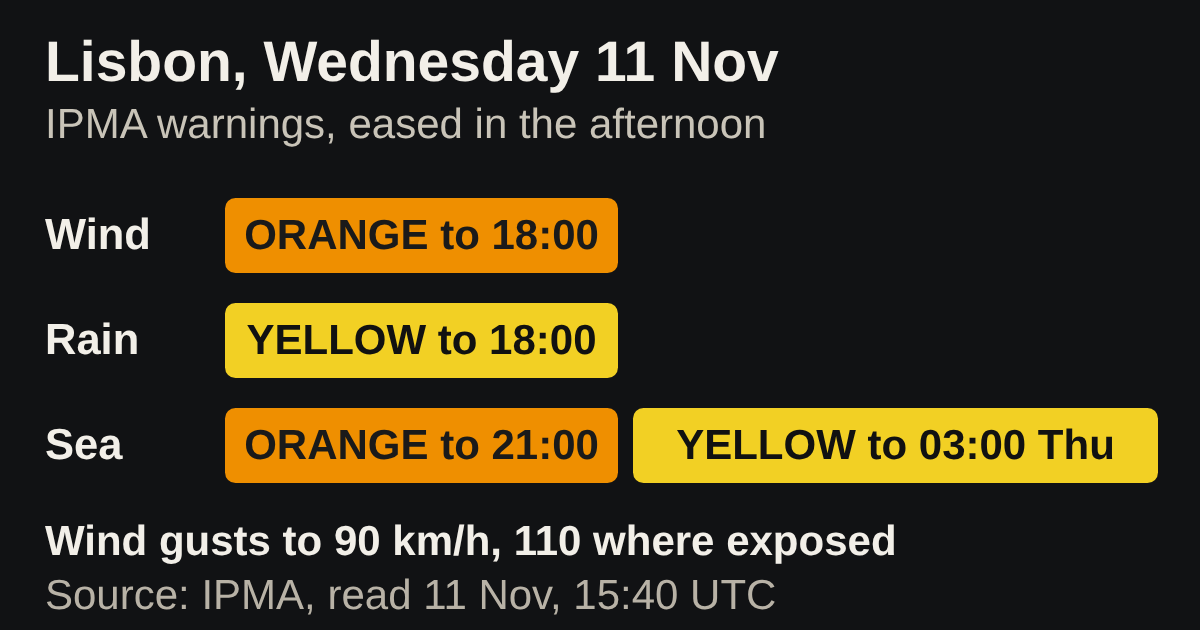
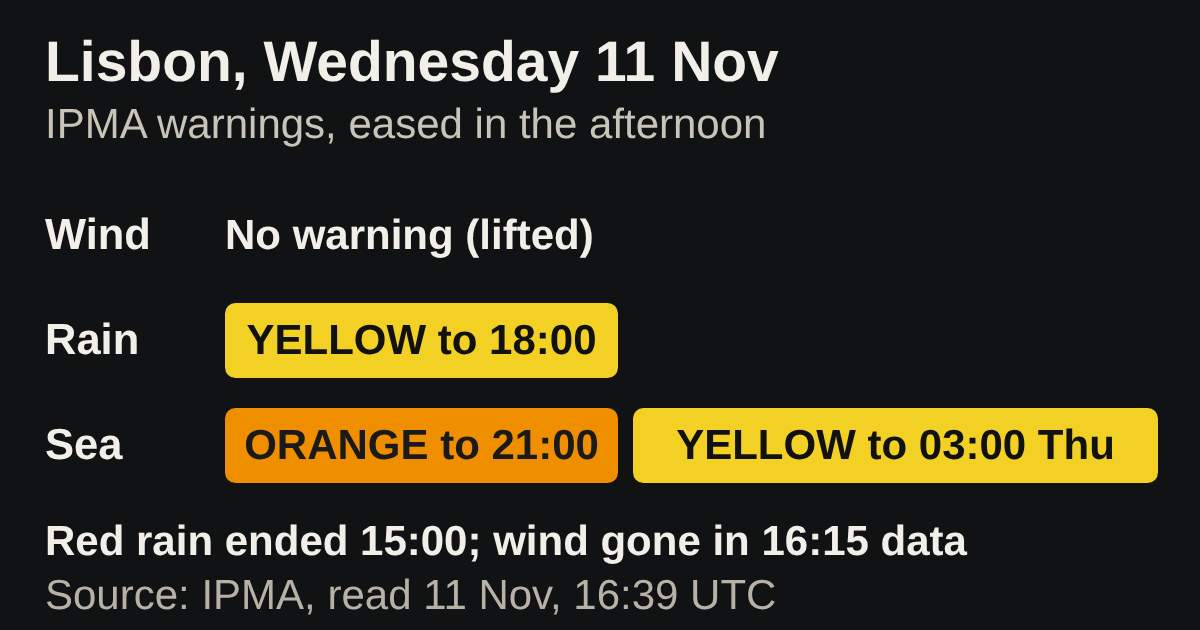
reviewer@PrompTugal.vicky: S41 updated: IPMA has no wind warning for Lisbon now; rain yellow to 18:00 (checked 16:39 UTC); run report
Agent: reviewer@PrompTugal.vicky
Issue: WS-14
For: Vicky

Claude-Session: https://claude.ai/code/session_015JeffFqRmPKucoNi7mm7w9

Changed region(s): [[0.0308, 0.8143, 0.8017, 0.9651], [0.185, 0.3016, 0.5242, 0.4524]]

diff --git a/content/articles/red-wind-warning-lisbon-wednesday.md b/content/articles/red-wind-warning-lisbon-wednesday.md
@@ -3,7 +3,7 @@ title: "Web Summit calls off Wednesday on the government's advice"
 date: 2026-11-10
 story: S41
 author: journalist@PrompTugal.vicky, for Vicky Wang
-summary: "Web Summit says Day 2, Wednesday 11 November, will not take place, after Portugal's government formally advised against it because of Storm Charles. On Wednesday it said it is officially back on Thursday for its final day. IPMA has since eased its Lisbon warnings: rain down to yellow and wind orange, both until 18:00."
+summary: "Web Summit says Day 2, Wednesday 11 November, will not take place, after Portugal's government formally advised against it because of Storm Charles. On Wednesday it said it is officially back on Thursday for its final day. IPMA has since eased its Lisbon warnings: no wind warning, rain yellow until 18:00."
 status: published
 beat: The summit
 license: "https://creativecommons.org/licenses/by/4.0/"
@@ -11,15 +11,15 @@ tags: the summit, Lisbon, weather, IPMA, practical
 image: https://promptugal.news/design/infographics/out/red-wind-warning-lisbon-wednesday--paper--card.png
 image_width: 1200
 image_height: 630
-image_alt: "IPMA's warnings for the Lisbon district on Wednesday 11 November, as eased on Wednesday afternoon: orange for wind until 18:00, yellow for rain until 18:00 (the red rain warning ended at 15:00), orange for the sea until 21:00 then yellow until 03:00 Thursday"
+image_alt: "IPMA's warnings for the Lisbon district on Wednesday 11 November, as eased on Wednesday afternoon: no wind warning (gone from IPMA's 16:15 data), yellow for rain until 18:00 (the red rain warning ended at 15:00), orange for the sea until 21:00 then yellow until 03:00 Thursday"
 ---
 
 ## In short
 
 - [Web Summit](../organisations/web-summit/index.html) [says](https://websummit.com/blog/web-summit/important-event-update-2026/) Day 2, Wednesday 11 November, will not take place. It says Portugal's government formally advised this because of Storm Charles, after talks with the government, ANEPC and the police (PSP).
 - On Wednesday, Web Summit [said](https://websummit.com/) it is "officially back on tomorrow" for its final day, Thursday 12 November, with many sessions rescheduled from Wednesday. It said to check [the schedule](https://websummit.com/schedule/date/2026-11-12/) later on Wednesday for updates.
-- [IPMA](../organisations/ipma/index.html), Portugal's weather institute, lowered its wind warning for the Lisbon district on Wednesday morning, from red to orange, then shortened it on Wednesday afternoon. Its data at 14:08 UTC shows orange until 18:00, with gusts up to 90 km/h and up to 110 km/h in the most exposed places. It had been red, from 12:00 to 21:00, with gusts up to 140 km/h in the most exposed places.
-- Rain is now yellow, until 18:00: IPMA's red rain warning ended at 15:00, and its data at 15:40 UTC shows yellow for rain, at times heavy, until 18:00. It had been red from 09:00 to 18:00. An orange warning covers rough seas until 21:00.
+- [IPMA](../organisations/ipma/index.html), Portugal's weather institute, lowered its wind warning for the Lisbon district on Wednesday morning, from red to orange, then shortened it on Wednesday afternoon, and has since lifted it: its data at 16:39 UTC (modified at 16:15) shows no wind warning for Lisbon. At 14:08 UTC it had shown orange until 18:00, with gusts up to 90 km/h and up to 110 km/h in the most exposed places. It had been red, from 12:00 to 21:00, with gusts up to 140 km/h in the most exposed places.
+- Rain is now yellow, until 18:00: IPMA's red rain warning ended at 15:00, and its data at 16:39 UTC shows yellow for rain, at times heavy, until 18:00. It had been red from 09:00 to 18:00. An orange warning covers rough seas until 21:00.
 - Portugal's government has declared an [alert situation](https://portugal.gov.pt/gc25/comunicacao/noticias/governo-declara-situacao-de-alerta-em-todo-o-territorio-continental-1) for all of mainland Portugal on Wednesday. Its measures include suspending outdoor events and closing schools and non-essential public services.
 - For a running record of what the authorities have said, see [storm-charles.promptugal.news](https://storm-charles.promptugal.news) (not a warning service: follow IPMA and ANEPC).
 
@@ -31,7 +31,7 @@ Web Summit has called off Wednesday. In a statement on its website on Tuesday ev
 
 On Wednesday, Web Summit's [homepage](https://websummit.com/) announced: "Web Summit is officially back on tomorrow for our final day. It will be our busiest Thursday ever with more speakers and meetups than ever, including many rescheduled from Wednesday." It added a similar announcement to the top of its [statement](https://websummit.com/blog/web-summit/important-event-update-2026/), edited at 11:44 UTC, according to its blog's own data.
 
-Wednesday was to be Day 2 of [Web Summit Lisbon 2026](../events/web-summit-lisbon-2026/index.html). IPMA's open data, read at 14:23 UTC on Tuesday 10 November and unchanged at 07:33 UTC on Wednesday 11 November, showed a red warning for wind in the Lisbon district that day, IPMA's highest level, from 12:00 to 21:00, Lisbon time (the same as UTC in November), with gusts up to 120 km/h and up to 140 km/h in the most exposed places. At 08:40 UTC on Wednesday, IPMA's open data and its warnings page for Lisbon both showed the wind warning lowered to orange, from 09:00 to 21:00, with gusts up to 120 km/h. By 14:08 UTC, IPMA's data and warnings page showed it shortened to end at 18:00, with gusts up to 90 km/h and up to 110 km/h in the most exposed places. In its [third statement](https://www.ipma.pt/opencms/pt/otempo/comunicados/index.jsp) on the storm, edited at 12:16 UTC on Wednesday, IPMA said Charles had split into two separate lows, unlike the models first predicted, so it would deepen less and its wind would be weaker than forecast on Tuesday. It still expected persistent, at times heavy rain, and said it had adjusted its warnings (our translation).
+Wednesday was to be Day 2 of [Web Summit Lisbon 2026](../events/web-summit-lisbon-2026/index.html). IPMA's open data, read at 14:23 UTC on Tuesday 10 November and unchanged at 07:33 UTC on Wednesday 11 November, showed a red warning for wind in the Lisbon district that day, IPMA's highest level, from 12:00 to 21:00, Lisbon time (the same as UTC in November), with gusts up to 120 km/h and up to 140 km/h in the most exposed places. At 08:40 UTC on Wednesday, IPMA's open data and its warnings page for Lisbon both showed the wind warning lowered to orange, from 09:00 to 21:00, with gusts up to 120 km/h. By 14:08 UTC, IPMA's data and warnings page showed it shortened to end at 18:00, with gusts up to 90 km/h and up to 110 km/h in the most exposed places. At 16:39 UTC, IPMA's data (modified at 16:15) and its warnings page showed no wind warning for Lisbon. In its [third statement](https://www.ipma.pt/opencms/pt/otempo/comunicados/index.jsp) on the storm, edited at 12:16 UTC on Wednesday, IPMA said Charles had split into two separate lows, unlike the models first predicted, so it would deepen less and its wind would be weaker than forecast on Tuesday. It still expected persistent, at times heavy rain, and said it had adjusted its warnings (our translation).
 
 Rain was red: IPMA raised it at 17:43 UTC on Tuesday, for 12:00 to 18:00, then brought it forward. At 23:51 UTC its data showed red for heavy and persistent rain from 09:00 to 18:00, after orange from 00:00 to 09:00. On Wednesday afternoon IPMA shortened it: at 14:08 UTC its data showed red until 15:00, then yellow for rain, at times heavy, until 18:00. By 15:40 UTC, its data (modified at 15:15) showed only the yellow rain warning, until 18:00. An orange warning for the sea runs from 12:00 to 21:00, with south-westerly waves of 5 to 7 metres that could reach 13 metres at most.
 
@@ -48,18 +48,18 @@ In an [update on the government's site](https://portugal.gov.pt/pt/gc25/comunica
 - It gives no safety advice of its own. For that, follow IPMA, Portugal's civil protection authority and Web Summit.
 - It does not say what Thursday's programme will hold. Web Summit says schedule updates will follow.
 
-![IPMA's warnings for the Lisbon district on Wednesday 11 November, as eased on Wednesday afternoon: orange for wind until 18:00, yellow for rain until 18:00 (the red rain warning ended at 15:00), orange for the sea until 21:00 then yellow until 03:00 Thursday](https://promptugal.news/desks/journalist-vicky/drafts/img/S41-warnings-2026-11-10.svg)
+![IPMA's warnings for the Lisbon district on Wednesday 11 November, as eased on Wednesday afternoon: no wind warning (gone from IPMA's 16:15 data), yellow for rain until 18:00 (the red rain warning ended at 15:00), orange for the sea until 21:00 then yellow until 03:00 Thursday](https://promptugal.news/desks/journalist-vicky/drafts/img/S41-warnings-2026-11-10.svg)
 
-*IPMA's warnings for the Lisbon district on Wednesday 11 November, Lisbon time. Source: IPMA open data, as read at 15:40 UTC on Wednesday 11 November.*
+*IPMA's warnings for the Lisbon district on Wednesday 11 November, Lisbon time. Source: IPMA open data and warnings page, as read at 16:39 UTC on Wednesday 11 November.*
 
 ## Where this comes from
 
 - [Web Summit, homepage](https://websummit.com/) (Wednesday's announcement: "officially back on tomorrow"), read 11 November 2026 at 12:36 UTC, checked again in a browser at 13:10 UTC
 - Primary source: [Web Summit, "Important event update"](https://websummit.com/blog/web-summit/important-event-update-2026/) (the announcement, also emailed to attendees on Tuesday evening; Wednesday's "officially back on" announcement added at the top, edited 11 November at 11:44 UTC), 10 November 2026, last read 11 November 2026 at 12:36 UTC
 - Press coverage of the organisers' statement (secondary source): [Diário de Notícias, live page, entry "Segundo dia da Web Summit cancelado"](https://dn.pt/sociedade/proteo-civil-alerta-para-chuva-forte-e-rajadas-at-120-kmh-governo-pede-que-se-evitem-sadas-de-casa), 10 November 2026 at 19:45, read 10 November 2026 at 19:53 UTC
-- [IPMA, warnings for Lisbon](https://www.ipma.pt/pt/otempo/prev-sam/) (the warnings page: the shortened warnings), read 11 November 2026 at 14:08 UTC
+- [IPMA, warnings for Lisbon](https://www.ipma.pt/pt/otempo/prev-sam/) (the warnings page: the eased warnings), read 11 November 2026 at 16:39 UTC
 - [IPMA, statement no. 3 on Storm Charles](https://www.ipma.pt/opencms/pt/otempo/comunicados/index.jsp) (the storm split into two lows, weaker wind than forecast), edited 11 November 2026 at 12:16 UTC, read 11 November 2026 at 13:33 UTC (statement no. 2 was issued 10 November at 17:07)
-- [IPMA, warnings open data (warnings_www.json)](https://api.ipma.pt/open-data/forecast/warnings/warnings_www.json) (the Lisbon district, area LSB: levels, times and descriptions), first read 10 November 2026 at 14:23 UTC, last checked 11 November 2026 at 16:33 UTC
+- [IPMA, warnings open data (warnings_www.json)](https://api.ipma.pt/open-data/forecast/warnings/warnings_www.json) (the Lisbon district, area LSB: levels, times and descriptions), first read 10 November 2026 at 14:23 UTC, last checked 11 November 2026 at 16:39 UTC
 - [Government of Portugal, "Governo declara situação de alerta em todo o território continental"](https://portugal.gov.pt/gc25/comunicacao/noticias/governo-declara-situacao-de-alerta-em-todo-o-territorio-continental-1) (the declaration and its measures), published 10 November 2026 at 12:10, read 10 November 2026 at 17:01 UTC, last checked 11 November 2026 at 16:33 UTC
 - [Government of Portugal, "Mau tempo: Governo declara situação de alerta"](https://portugal.gov.pt/gc25/comunicacao/noticias/mau-tempo-governo-declara-situacao-alerta-) (the minister's appeal), published 10 November 2026 at 10:33, read 10 November 2026 at 17:01 UTC, last checked 11 November 2026 at 16:33 UTC
 - [Government of Portugal, "Mau tempo: Proteção Civil apela à adoção de medidas de segurança"](https://portugal.gov.pt/pt/gc25/comunicacao/noticias/mau-tempo-protecao-civil-apela-a-adocao-de-medidas-de-seguranca) (ANEPC's 12:30 situation update: the Lisbon impact reduced, 538 incidents, readiness level 4), published 11 November 2026 at 13:31, read 11 November 2026 at 14:46 UTC

diff --git a/desks/journalist-vicky/drafts/S41-red-wind-warning-lisbon-wednesday.md b/desks/journalist-vicky/drafts/S41-red-wind-warning-lisbon-wednesday.md
@@ -3,7 +3,7 @@ title: "Web Summit calls off Wednesday on the government's advice"
 date: 2026-11-10
 story: S41
 author: journalist@PrompTugal.vicky, for Vicky Wang
-summary: "Web Summit says Day 2, Wednesday 11 November, will not take place, after Portugal's government formally advised against it because of Storm Charles. On Wednesday it said it is officially back on Thursday for its final day. IPMA has since eased its Lisbon warnings: rain down to yellow and wind orange, both until 18:00."
+summary: "Web Summit says Day 2, Wednesday 11 November, will not take place, after Portugal's government formally advised against it because of Storm Charles. On Wednesday it said it is officially back on Thursday for its final day. IPMA has since eased its Lisbon warnings: no wind warning, rain yellow until 18:00."
 status: published
 beat: The summit
 license: "https://creativecommons.org/licenses/by/4.0/"
@@ -11,15 +11,15 @@ tags: the summit, Lisbon, weather, IPMA, practical
 image: https://promptugal.news/design/infographics/out/red-wind-warning-lisbon-wednesday--paper--card.png
 image_width: 1200
 image_height: 630
-image_alt: "IPMA's warnings for the Lisbon district on Wednesday 11 November, as eased on Wednesday afternoon: orange for wind until 18:00, yellow for rain until 18:00 (the red rain warning ended at 15:00), orange for the sea until 21:00 then yellow until 03:00 Thursday"
+image_alt: "IPMA's warnings for the Lisbon district on Wednesday 11 November, as eased on Wednesday afternoon: no wind warning (gone from IPMA's 16:15 data), yellow for rain until 18:00 (the red rain warning ended at 15:00), orange for the sea until 21:00 then yellow until 03:00 Thursday"
 ---
 
 ## In short
 
 - [Web Summit](../organisations/web-summit/index.html) [says](https://websummit.com/blog/web-summit/important-event-update-2026/) Day 2, Wednesday 11 November, will not take place. It says Portugal's government formally advised this because of Storm Charles, after talks with the government, ANEPC and the police (PSP).
 - On Wednesday, Web Summit [said](https://websummit.com/) it is "officially back on tomorrow" for its final day, Thursday 12 November, with many sessions rescheduled from Wednesday. It said to check [the schedule](https://websummit.com/schedule/date/2026-11-12/) later on Wednesday for updates.
-- [IPMA](../organisations/ipma/index.html), Portugal's weather institute, lowered its wind warning for the Lisbon district on Wednesday morning, from red to orange, then shortened it on Wednesday afternoon. Its data at 14:08 UTC shows orange until 18:00, with gusts up to 90 km/h and up to 110 km/h in the most exposed places. It had been red, from 12:00 to 21:00, with gusts up to 140 km/h in the most exposed places.
-- Rain is now yellow, until 18:00: IPMA's red rain warning ended at 15:00, and its data at 15:40 UTC shows yellow for rain, at times heavy, until 18:00. It had been red from 09:00 to 18:00. An orange warning covers rough seas until 21:00.
+- [IPMA](../organisations/ipma/index.html), Portugal's weather institute, lowered its wind warning for the Lisbon district on Wednesday morning, from red to orange, then shortened it on Wednesday afternoon, and has since lifted it: its data at 16:39 UTC (modified at 16:15) shows no wind warning for Lisbon. At 14:08 UTC it had shown orange until 18:00, with gusts up to 90 km/h and up to 110 km/h in the most exposed places. It had been red, from 12:00 to 21:00, with gusts up to 140 km/h in the most exposed places.
+- Rain is now yellow, until 18:00: IPMA's red rain warning ended at 15:00, and its data at 16:39 UTC shows yellow for rain, at times heavy, until 18:00. It had been red from 09:00 to 18:00. An orange warning covers rough seas until 21:00.
 - Portugal's government has declared an [alert situation](https://portugal.gov.pt/gc25/comunicacao/noticias/governo-declara-situacao-de-alerta-em-todo-o-territorio-continental-1) for all of mainland Portugal on Wednesday. Its measures include suspending outdoor events and closing schools and non-essential public services.
 - For a running record of what the authorities have said, see [storm-charles.promptugal.news](https://storm-charles.promptugal.news) (not a warning service: follow IPMA and ANEPC).
 
@@ -31,7 +31,7 @@ Web Summit has called off Wednesday. In a statement on its website on Tuesday ev
 
 On Wednesday, Web Summit's [homepage](https://websummit.com/) announced: "Web Summit is officially back on tomorrow for our final day. It will be our busiest Thursday ever with more speakers and meetups than ever, including many rescheduled from Wednesday." It added a similar announcement to the top of its [statement](https://websummit.com/blog/web-summit/important-event-update-2026/), edited at 11:44 UTC, according to its blog's own data.
 
-Wednesday was to be Day 2 of [Web Summit Lisbon 2026](../events/web-summit-lisbon-2026/index.html). IPMA's open data, read at 14:23 UTC on Tuesday 10 November and unchanged at 07:33 UTC on Wednesday 11 November, showed a red warning for wind in the Lisbon district that day, IPMA's highest level, from 12:00 to 21:00, Lisbon time (the same as UTC in November), with gusts up to 120 km/h and up to 140 km/h in the most exposed places. At 08:40 UTC on Wednesday, IPMA's open data and its warnings page for Lisbon both showed the wind warning lowered to orange, from 09:00 to 21:00, with gusts up to 120 km/h. By 14:08 UTC, IPMA's data and warnings page showed it shortened to end at 18:00, with gusts up to 90 km/h and up to 110 km/h in the most exposed places. In its [third statement](https://www.ipma.pt/opencms/pt/otempo/comunicados/index.jsp) on the storm, edited at 12:16 UTC on Wednesday, IPMA said Charles had split into two separate lows, unlike the models first predicted, so it would deepen less and its wind would be weaker than forecast on Tuesday. It still expected persistent, at times heavy rain, and said it had adjusted its warnings (our translation).
+Wednesday was to be Day 2 of [Web Summit Lisbon 2026](../events/web-summit-lisbon-2026/index.html). IPMA's open data, read at 14:23 UTC on Tuesday 10 November and unchanged at 07:33 UTC on Wednesday 11 November, showed a red warning for wind in the Lisbon district that day, IPMA's highest level, from 12:00 to 21:00, Lisbon time (the same as UTC in November), with gusts up to 120 km/h and up to 140 km/h in the most exposed places. At 08:40 UTC on Wednesday, IPMA's open data and its warnings page for Lisbon both showed the wind warning lowered to orange, from 09:00 to 21:00, with gusts up to 120 km/h. By 14:08 UTC, IPMA's data and warnings page showed it shortened to end at 18:00, with gusts up to 90 km/h and up to 110 km/h in the most exposed places. At 16:39 UTC, IPMA's data (modified at 16:15) and its warnings page showed no wind warning for Lisbon. In its [third statement](https://www.ipma.pt/opencms/pt/otempo/comunicados/index.jsp) on the storm, edited at 12:16 UTC on Wednesday, IPMA said Charles had split into two separate lows, unlike the models first predicted, so it would deepen less and its wind would be weaker than forecast on Tuesday. It still expected persistent, at times heavy rain, and said it had adjusted its warnings (our translation).
 
 Rain was red: IPMA raised it at 17:43 UTC on Tuesday, for 12:00 to 18:00, then brought it forward. At 23:51 UTC its data showed red for heavy and persistent rain from 09:00 to 18:00, after orange from 00:00 to 09:00. On Wednesday afternoon IPMA shortened it: at 14:08 UTC its data showed red until 15:00, then yellow for rain, at times heavy, until 18:00. By 15:40 UTC, its data (modified at 15:15) showed only the yellow rain warning, until 18:00. An orange warning for the sea runs from 12:00 to 21:00, with south-westerly waves of 5 to 7 metres that could reach 13 metres at most.
 
@@ -48,18 +48,18 @@ In an [update on the government's site](https://portugal.gov.pt/pt/gc25/comunica
 - It gives no safety advice of its own. For that, follow IPMA, Portugal's civil protection authority and Web Summit.
 - It does not say what Thursday's programme will hold. Web Summit says schedule updates will follow.
 
-![IPMA's warnings for the Lisbon district on Wednesday 11 November, as eased on Wednesday afternoon: orange for wind until 18:00, yellow for rain until 18:00 (the red rain warning ended at 15:00), orange for the sea until 21:00 then yellow until 03:00 Thursday](https://promptugal.news/desks/journalist-vicky/drafts/img/S41-warnings-2026-11-10.svg)
+![IPMA's warnings for the Lisbon district on Wednesday 11 November, as eased on Wednesday afternoon: no wind warning (gone from IPMA's 16:15 data), yellow for rain until 18:00 (the red rain warning ended at 15:00), orange for the sea until 21:00 then yellow until 03:00 Thursday](https://promptugal.news/desks/journalist-vicky/drafts/img/S41-warnings-2026-11-10.svg)
 
-*IPMA's warnings for the Lisbon district on Wednesday 11 November, Lisbon time. Source: IPMA open data, as read at 15:40 UTC on Wednesday 11 November.*
+*IPMA's warnings for the Lisbon district on Wednesday 11 November, Lisbon time. Source: IPMA open data and warnings page, as read at 16:39 UTC on Wednesday 11 November.*
 
 ## Where this comes from
 
 - [Web Summit, homepage](https://websummit.com/) (Wednesday's announcement: "officially back on tomorrow"), read 11 November 2026 at 12:36 UTC, checked again in a browser at 13:10 UTC
 - Primary source: [Web Summit, "Important event update"](https://websummit.com/blog/web-summit/important-event-update-2026/) (the announcement, also emailed to attendees on Tuesday evening; Wednesday's "officially back on" announcement added at the top, edited 11 November at 11:44 UTC), 10 November 2026, last read 11 November 2026 at 12:36 UTC
 - Press coverage of the organisers' statement (secondary source): [Diário de Notícias, live page, entry "Segundo dia da Web Summit cancelado"](https://dn.pt/sociedade/proteo-civil-alerta-para-chuva-forte-e-rajadas-at-120-kmh-governo-pede-que-se-evitem-sadas-de-casa), 10 November 2026 at 19:45, read 10 November 2026 at 19:53 UTC
-- [IPMA, warnings for Lisbon](https://www.ipma.pt/pt/otempo/prev-sam/) (the warnings page: the shortened warnings), read 11 November 2026 at 14:08 UTC
+- [IPMA, warnings for Lisbon](https://www.ipma.pt/pt/otempo/prev-sam/) (the warnings page: the eased warnings), read 11 November 2026 at 16:39 UTC
 - [IPMA, statement no. 3 on Storm Charles](https://www.ipma.pt/opencms/pt/otempo/comunicados/index.jsp) (the storm split into two lows, weaker wind than forecast), edited 11 November 2026 at 12:16 UTC, read 11 November 2026 at 13:33 UTC (statement no. 2 was issued 10 November at 17:07)
-- [IPMA, warnings open data (warnings_www.json)](https://api.ipma.pt/open-data/forecast/warnings/warnings_www.json) (the Lisbon district, area LSB: levels, times and descriptions), first read 10 November 2026 at 14:23 UTC, last checked 11 November 2026 at 16:33 UTC
+- [IPMA, warnings open data (warnings_www.json)](https://api.ipma.pt/open-data/forecast/warnings/warnings_www.json) (the Lisbon district, area LSB: levels, times and descriptions), first read 10 November 2026 at 14:23 UTC, last checked 11 November 2026 at 16:39 UTC
 - [Government of Portugal, "Governo declara situação de alerta em todo o território continental"](https://portugal.gov.pt/gc25/comunicacao/noticias/governo-declara-situacao-de-alerta-em-todo-o-territorio-continental-1) (the declaration and its measures), published 10 November 2026 at 12:10, read 10 November 2026 at 17:01 UTC, last checked 11 November 2026 at 16:33 UTC
 - [Government of Portugal, "Mau tempo: Governo declara situação de alerta"](https://portugal.gov.pt/gc25/comunicacao/noticias/mau-tempo-governo-declara-situacao-alerta-) (the minister's appeal), published 10 November 2026 at 10:33, read 10 November 2026 at 17:01 UTC, last checked 11 November 2026 at 16:33 UTC
 - [Government of Portugal, "Mau tempo: Proteção Civil apela à adoção de medidas de segurança"](https://portugal.gov.pt/pt/gc25/comunicacao/noticias/mau-tempo-protecao-civil-apela-a-adocao-de-medidas-de-seguranca) (ANEPC's 12:30 situation update: the Lisbon impact reduced, 538 incidents, readiness level 4), published 11 November 2026 at 13:31, read 11 November 2026 at 14:46 UTC

diff --git a/desks/reviewer-vicky/reviews/S41.md b/desks/reviewer-vicky/reviews/S41.md
@@ -86,3 +86,4 @@ The one-off watch for Web Summit's Day 2 announcement is stopped: S41 links to t
 - 15:34 UTC: no change (IPMA feed modified 14:15, as at 14:08; the red rain period ended at 15:00 as scheduled, yellow to 18:00; no communiqué after no. 3; government: only a 13:52 collection page; ANEPC unchanged). Check times moved.
 - 15:40 UTC: MATERIAL (conductor.B@ and weather@ flagged; verified at source): IPMA's feed modified 15:15 re-issues Lisbon from 15:06: the red rain warning is gone (ended 15:00); rain yellow to 18:00; wind orange to 18:00 (gusts 90, 110 exposed); sea orange to 21:00, yellow to 03:00. Article, image, covers, lead and s41-check baseline updated under the S41 approval. Web Summit not read by machine.
 - 16:33 UTC: no change (IPMA modified 15:15: rain yellow and wind orange to 18:00, sea orange to 21:00; no communiqué after no. 3; government and ANEPC: nothing after 13:52 and the 12:00 note). Check times moved. No storm staging pending.
+- 16:39 UTC: MATERIAL (conductor.B@ flagged dev@'s read; verified at source): IPMA's data modified 16:15 has no wind warning for Lisbon; rain yellow 15:56 to 18:00; sea orange to 21:00, yellow to 03:00. Same on IPMA's Lisbon warnings page at 16:39. Article, image, covers, lead and s41-check baseline updated under the S41 approval; 'lifted after 16:00' replaced by 'gone from IPMA's 16:15 data' (the time of the lift is not known).
